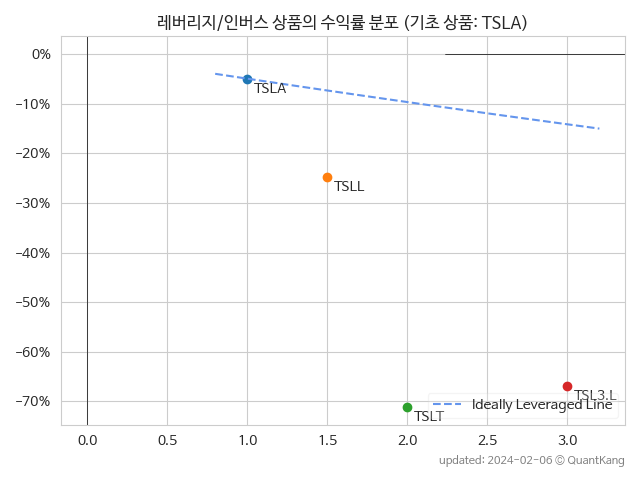
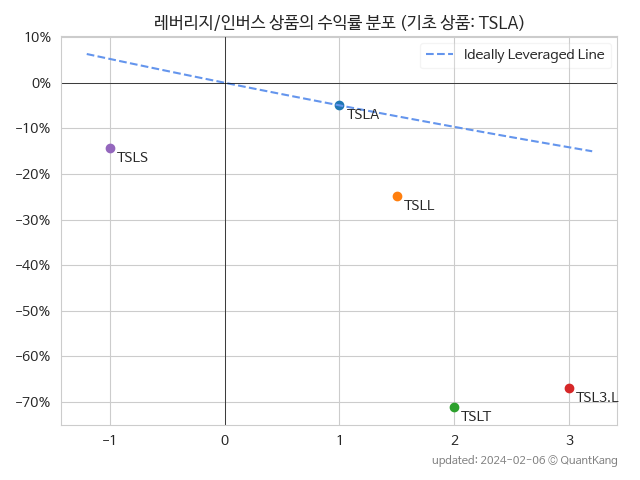
added tsls (-1x)

diff --git a/_posts/lev/2024-02-06-ts3s.md b/_posts/lev/2024-02-06-ts3s.md
@@ -1,0 +1,59 @@
+---
+layout: splash
+title: TS3S.L 수익률과 비용 (TSLA -3x)
+excerpt: TS3S.L의 1년 수익률은 31554.3%, 추정 비용은 -26967.1%입니다.
+header:
+  overlay_color: "#333"
+  show_overlay_excerpt: false
+categories:
+- 인버스 레버리지
+---
+
+| **종목** | **1년** | **편차** | **샤프** | **MDD** | **AvDD** |
+| :------------ | ------: | -----------: | -------: | ------: | -------: |
+| TS3S.L | <span style="color: tomato">31554.3<small>%</small></span> | 80334.2<small>%</small> | 0.39 | -90.1<small>%</small> | -50.3<small>%</small> |
+
+<!-- more -->
+
+<br>
+
+![TS3S.L](/lev/images/ts3s.png)
+
+> **주요 가격 변동 지표**<small>[^fn_price_metric]</small>
+
+
+| **종목** | **1년** | **편차** | **샤프** | **MDD** | **AvDD** |
+| :------------ | ------: | -----------: | -------: | ------: | -------: |
+| TSLA | <span style="color: cornflowerblue">-5.0<small>%</small></span> | 50.1% | -0.10 | -38.3<small>%</small> | -14.8<small>%</small> |
+| Ideal<small>[^fn_lev_ideal]</small> | <span style="color: tomato">16.5<small>%</small></span> | 154.9% | 0.11 | -85.6<small>%</small> | -55.7<small>%</small> |
+| I. daily<small>[^fn_lev_ideal_daily]</small> | <span style="color: cornflowerblue">-73.6<small>%</small></span> | 150.3% | -0.49 | -92.0<small>%</small> | -66.0<small>%</small> |
+| TS3S.L | <span style="color: tomato">31554.3<small>%</small></span> | 80334.2% | 0.39 | -90.1<small>%</small> | -50.3<small>%</small> |
+
+<br>
+
+> **추정 비용**<small>[^fn_lev_expense]</small><a id="expense"></a>
+
+TS3S.L 상품을 TSLA 상품의 -3배 레버리지라 가정하고 분석한 결과입니다.
+
+![TS3S.L](/lev/images/ts3s_ideal.png)
+
+| **종목** | **변동성비용**[^fn_lev_vd_expense] | **금융비용**[^fn_lev_fn_expense] | **전체비용**[^fn_lev_tt_expense] |
+| :------------ | ------: | -----------: | -------: |
+| TS3S.L | 77.3<small>%</small> | -119148.2<small>%</small> | -26967.1<small>%</small> |
+
+<br>
+
+> **관련 레버리지/인버스 상품의 수익률 분포**
+
+TSLA 상품을 기초로 하는 타 레버리지/인버스 상품과 비교합니다.
+
+![TSLA](/lev/images/tsla_ideal.png)
+
+{% include lev/tsla_inc.md %}
+
+<br>
+> **관련 정보**
+
+- [레버리지/인버스 수익률과 비용 목록](/lev/)
+
+{% include commons/footnotes.md %}

diff --git a/_posts/lev/2024-02-06-ts2s.md b/_posts/lev/2024-02-06-ts2s.md
@@ -1,0 +1,59 @@
+---
+layout: splash
+title: TS2S.L 수익률과 비용 (TSLA -2x)
+excerpt: TS2S.L의 1년 수익률은 4331.9%, 추정 비용은 -3892.8%입니다.
+header:
+  overlay_color: "#333"
+  show_overlay_excerpt: false
+categories:
+- 인버스 레버리지
+---
+
+| **종목** | **1년** | **편차** | **샤프** | **MDD** | **AvDD** |
+| :------------ | ------: | -----------: | -------: | ------: | -------: |
+| TS2S.L | <span style="color: tomato">4331.9<small>%</small></span> | 6289.2<small>%</small> | 0.69 | -76.0<small>%</small> | -38.8<small>%</small> |
+
+<!-- more -->
+
+<br>
+
+![TS2S.L](/lev/images/ts2s.png)
+
+> **주요 가격 변동 지표**<small>[^fn_price_metric]</small>
+
+
+| **종목** | **1년** | **편차** | **샤프** | **MDD** | **AvDD** |
+| :------------ | ------: | -----------: | -------: | ------: | -------: |
+| TSLA | <span style="color: cornflowerblue">-5.0<small>%</small></span> | 50.1% | -0.10 | -38.3<small>%</small> | -14.8<small>%</small> |
+| Ideal<small>[^fn_lev_ideal]</small> | <span style="color: tomato">10.7<small>%</small></span> | 102.1% | 0.10 | -72.5<small>%</small> | -44.1<small>%</small> |
+| I. daily<small>[^fn_lev_ideal_daily]</small> | <span style="color: cornflowerblue">-47.1<small>%</small></span> | 100.2% | -0.47 | -78.2<small>%</small> | -52.6<small>%</small> |
+| TS2S.L | <span style="color: tomato">4331.9<small>%</small></span> | 6289.2% | 0.69 | -76.0<small>%</small> | -38.8<small>%</small> |
+
+<br>
+
+> **추정 비용**<small>[^fn_lev_expense]</small><a id="expense"></a>
+
+TS2S.L 상품을 TSLA 상품의 -2배 레버리지라 가정하고 분석한 결과입니다.
+
+![TS2S.L](/lev/images/ts2s_ideal.png)
+
+| **종목** | **변동성비용**[^fn_lev_vd_expense] | **금융비용**[^fn_lev_fn_expense] | **전체비용**[^fn_lev_tt_expense] |
+| :------------ | ------: | -----------: | -------: |
+| TS2S.L | 52.2<small>%</small> | -8245.3<small>%</small> | -3892.8<small>%</small> |
+
+<br>
+
+> **관련 레버리지/인버스 상품의 수익률 분포**
+
+TSLA 상품을 기초로 하는 타 레버리지/인버스 상품과 비교합니다.
+
+![TSLA](/lev/images/tsla_ideal.png)
+
+{% include lev/tsla_inc.md %}
+
+<br>
+> **관련 정보**
+
+- [레버리지/인버스 수익률과 비용 목록](/lev/)
+
+{% include commons/footnotes.md %}

diff --git a/_posts/lev/2024-02-06-tsls.md b/_posts/lev/2024-02-06-tsls.md
@@ -1,0 +1,59 @@
+---
+layout: splash
+title: TSLS 수익률과 비용 (TSLA -1x)
+excerpt: TSLS의 1년 수익률은 -14.4%, 추정 비용은 18.6%입니다.
+header:
+  overlay_color: "#333"
+  show_overlay_excerpt: false
+categories:
+- 인버스
+---
+
+| **종목** | **1년** | **편차** | **샤프** | **MDD** | **AvDD** |
+| :------------ | ------: | -----------: | -------: | ------: | -------: |
+| TSLS | <span style="color: cornflowerblue">-14.4<small>%</small></span> | 49.6<small>%</small> | -0.29 | -49.6<small>%</small> | -30.5<small>%</small> |
+
+<!-- more -->
+
+<br>
+
+![TSLS](/lev/images/tsls.png)
+
+> **주요 가격 변동 지표**<small>[^fn_price_metric]</small>
+
+
+| **종목** | **1년** | **편차** | **샤프** | **MDD** | **AvDD** |
+| :------------ | ------: | -----------: | -------: | ------: | -------: |
+| TSLA | <span style="color: cornflowerblue">-5.0<small>%</small></span> | 49.3% | -0.10 | -38.3<small>%</small> | -14.9<small>%</small> |
+| Ideal<small>[^fn_lev_ideal]</small> | <span style="color: tomato">5.2<small>%</small></span> | 49.9% | 0.10 | -47.6<small>%</small> | -26.6<small>%</small> |
+| I. daily<small>[^fn_lev_ideal_daily]</small> | <span style="color: cornflowerblue">-17.6<small>%</small></span> | 49.3% | -0.36 | -49.9<small>%</small> | -31.2<small>%</small> |
+| TSLS | <span style="color: cornflowerblue">-14.4<small>%</small></span> | 49.6% | -0.29 | -49.6<small>%</small> | -30.5<small>%</small> |
+
+<br>
+
+> **추정 비용**<small>[^fn_lev_expense]</small><a id="expense"></a>
+
+TSLS 상품을 TSLA 상품의 -1배 레버리지라 가정하고 분석한 결과입니다.
+
+![TSLS](/lev/images/tsls_ideal.png)
+
+| **종목** | **변동성비용**[^fn_lev_vd_expense] | **금융비용**[^fn_lev_fn_expense] | **전체비용**[^fn_lev_tt_expense] |
+| :------------ | ------: | -----------: | -------: |
+| TSLS | 21.6<small>%</small> | -3.8<small>%</small> | 18.6<small>%</small> |
+
+<br>
+
+> **관련 레버리지/인버스 상품의 수익률 분포**
+
+TSLA 상품을 기초로 하는 타 레버리지/인버스 상품과 비교합니다.
+
+![TSLA](/lev/images/tsla_ideal.png)
+
+{% include lev/tsla_inc.md %}
+
+<br>
+> **관련 정보**
+
+- [레버리지/인버스 수익률과 비용 목록](/lev/)
+
+{% include commons/footnotes.md %}

diff --git a/_includes/lev/tsla_inc.md b/_includes/lev/tsla_inc.md
@@ -4,3 +4,4 @@
 | [TSLL](/tsll/) | 1.5<small>배</small> | <span style="color: cornflowerblue">-24.8<small>%</small></span> | 8.9<small>%</small> | 10.9<small>%</small> | 18.8<small>%</small> |
 | [TSLT](/tslt/) | 2<small>배</small> | <span style="color: cornflowerblue">-71.2<small>%</small></span> | 5.9<small>%</small> | 3.8<small>%</small> | 9.5<small>%</small> |
 | [TSL3.L](/tsl3/) | 3<small>배</small> | <span style="color: cornflowerblue">-67.0<small>%</small></span> | 53.3<small>%</small> | 17.5<small>%</small> | 61.5<small>%</small> |
+| [TSLS](/tsls/) | -1<small>배</small> | <span style="color: cornflowerblue">-14.4<small>%</small></span> | 21.6<small>%</small> | -3.8<small>%</small> | 18.6<small>%</small> |
